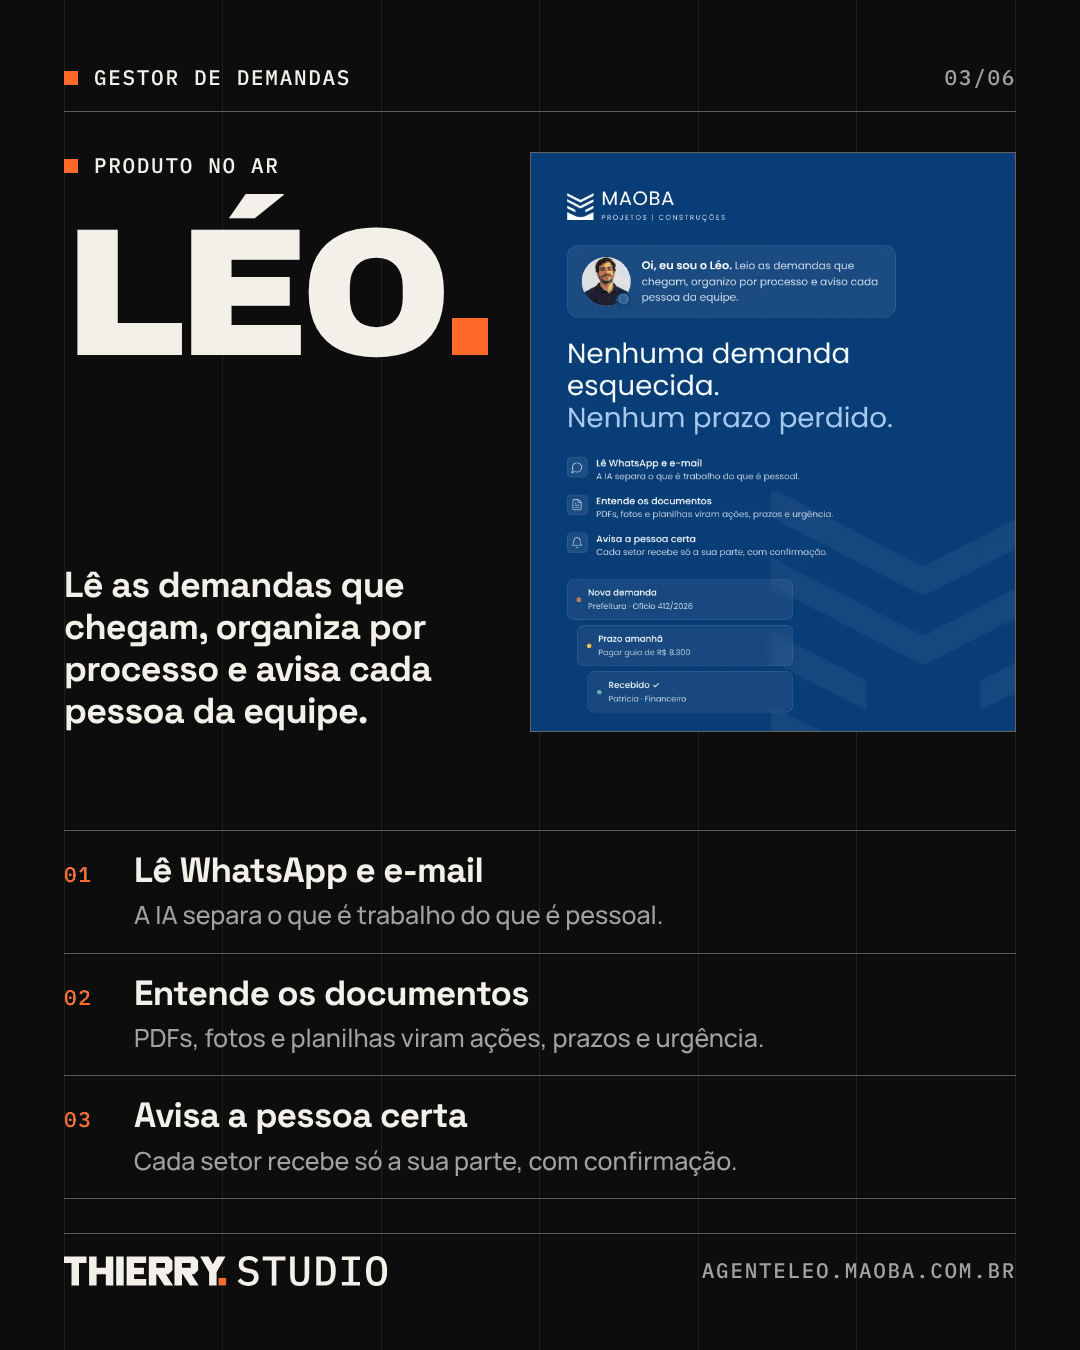
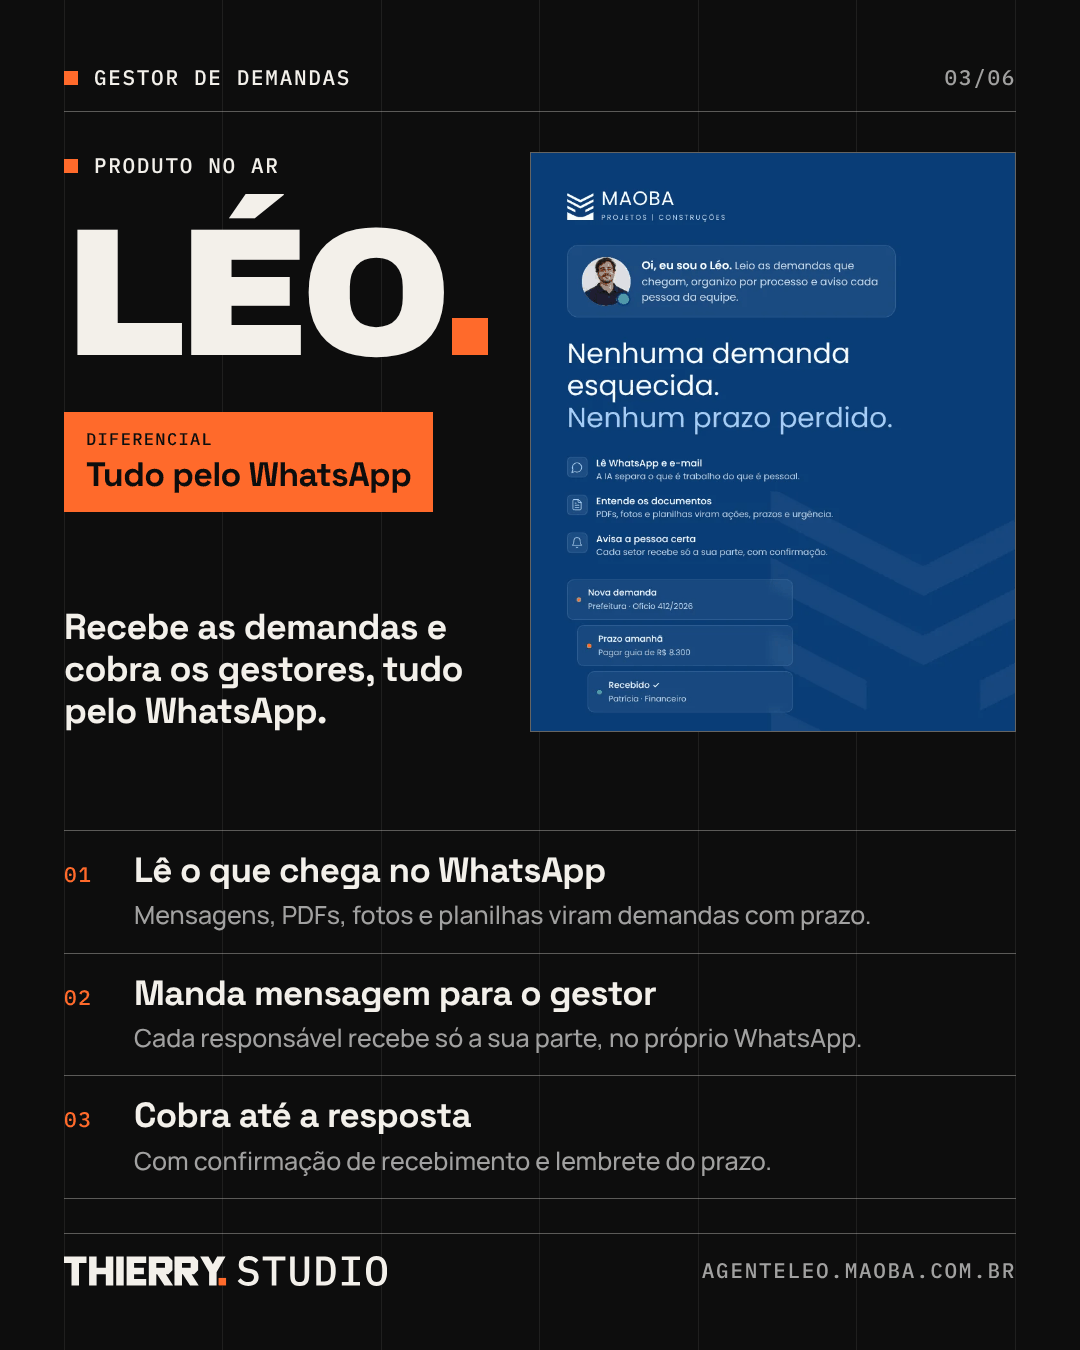
Carrossel dos agentes: WhatsApp como diferencial do Léo e do Marcos
Os slides do Léo e do Marcos ganham o selo 'Diferencial: Tudo pelo WhatsApp' e
os três pontos passam a falar do que cada um faz pela conversa.

Claude-Session: https://claude.ai/code/session_018eqFjanEQ77X5sWiiuCgkJ

diff --git a/brand/social/README.md b/brand/social/README.md
@@ -39,7 +39,7 @@ Tudo fica em `brand/scripts/build-social.mjs`, na seção **PEÇAS**:
 | `posts/` | `case-agenda-emi-01` a `-03` | 1080 × 1350 | Case study: capa, problema e solução, funcionalidades e CTA |
 | `posts/` | `rebrand-01` a `-06` | 1080 × 1350 | Carrossel de apresentação da nova identidade: capa (antes e agora), o nome, o símbolo T.S, paleta e tipografia, os três pilares e CTA |
 | `posts/` | `venda-01` a `-05` | 1080 × 1350 | Carrossel de venda: capa (site, sistema ou IA?), qual é o seu caso, processo, diferenciais e CTA. Sem preço nem prazo fixos e sem projetos |
-| `posts/` | `agentes-01` a `-06` | 1080 × 1350 | Carrossel dos produtos desenvolvidos para a MAOBA: capa, Ás (licitações), Léo (demandas), Marcos (convênios), Nexo (frotas) e CTA. Textos e imagens das páginas públicas de cada produto |
+| `posts/` | `agentes-01` a `-06` | 1080 × 1350 | Carrossel dos produtos desenvolvidos para a MAOBA: capa, Ás (licitações), Léo (demandas), Marcos (convênios), Nexo (frotas) e CTA. Léo e Marcos destacam o diferencial "Tudo pelo WhatsApp". Textos e imagens das páginas públicas de cada produto |
 | `whatsapp/` | `anuncio-grupo` | 1080 × 1350 | Anúncio para grupos de WhatsApp (classificados): serviços, diferenciais e telefone |
 | `stories/` | `story-institucional`, `story-projeto` | 1080 × 1920 | Story com CTA e story de projeto no ar |
 | `reels/` | `reel-capa-01`, `reel-capa-02`, `reel-capa-rebranding` | 1080 × 1920 | Capas de reels |
